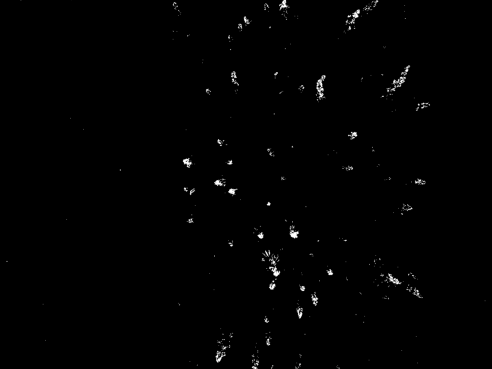
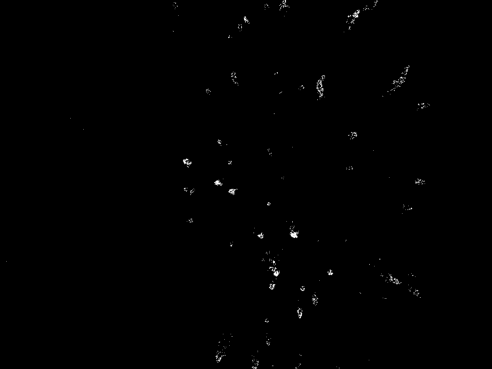
initial contour count

diff --git a/test.py b/test.py
@@ -8,8 +8,9 @@ import timeit
 
 start = timeit.default_timer()
 
-DOMINANT_COLORS = 20
+DOMINANT_COLORS = 50
 FILEPATH = "hemp1.jpeg"
+NUM_LUMA = 4
 
 def generateOriginalImage():
 
@@ -138,6 +139,18 @@ def imageClosing(img, imageNum, times):
     plt.close()
     return closedImg, closedFilepath
 
+def imageDilation(img, imageNum, times):
+    dilatedFilepath = f'BW{imageNum}.png'
+    dilatedImg = morphology.dilation(img)
+    plt.imshow(dilatedImg)
+    #plt.suptitle(f"{times}x Closing, K={DOMINANT_COLORS}")
+    plt.axis('off')
+    #plt.savefig(closedFilepath, bbox_inches='tight')
+    plt.savefig(dilatedFilepath, bbox_inches='tight', pad_inches = 0)
+    #plt.show()
+    plt.close()
+    return dilatedImg, dilatedFilepath
+
 def generateTransparentImage(filepath):
     transparentFilepath = 'transparent_image.png'
     BW = Image.open(filepath)
@@ -155,6 +168,7 @@ def generateTransparentImage(filepath):
     return transparentFilepath
 
 def overlayImages(segmentedFilepath, transparentFilepath):
+    overlayFilepath = 'overlayed.png'
     '''
     background = cv2.imread(segmentedFilepath)
     overlay = cv2.imread(transparentFilepath)
@@ -184,10 +198,25 @@ def overlayImages(segmentedFilepath, transparentFilepath):
 
     # display the image
     #cv2.imshow("Composited image", background)
-    cv2.imwrite('overlayed.png', background) 
+    cv2.imwrite(overlayFilepath, background) 
     cv2.waitKey(0)
     cv2.destroyAllWindows()
+    return overlayFilepath
 
+def findBlobs(img_filepath):
+    cannyFilepath = 'Canny_Edges_After_Contouring.png'
+    contourFilepath = 'Contours.png'
+    img = cv2.imread(img_filepath)
+    imgray = cv2.cvtColor(img, cv2.COLOR_BGR2GRAY)
+    edged = cv2.Canny(imgray, 30, 200) 
+    #contours, hierarchy = cv2.findContours(edged,cv2.RETR_LIST, cv2.CHAIN_APPROX_NONE)
+    contours, hierarchy = cv2.findContours(edged,cv2.RETR_EXTERNAL, cv2.CHAIN_APPROX_NONE)
+    cv2.imwrite(cannyFilepath, edged) 
+    print("Number of Contours found = " + str(len(contours))) 
+    cv2.drawContours(img, contours, -1, (255, 255, 255), thickness=cv2.FILLED) 
+    cv2.imwrite(contourFilepath, img) 
+    cv2.destroyAllWindows()
+    return cannyFilepath, contourFilepath
 
 im = generateOriginalImage()
 km, centers = kMeans(im)
@@ -200,10 +229,18 @@ bw_img, BW1Filepath = generateBWImage(bw_img, km, colors, original_shape)
 opened_img1x, openedFilepath1x = imageOpening(bw_img, 2, 1)
 closed_img1x, closedFilepath1x = imageClosing(opened_img1x, 3, 1)
 closed_img2x, closedFilepath2x = imageClosing(closed_img1x, 4, 2)
+closed_img3x, closedFilepath3x = imageClosing(closed_img1x, 5, 3)
+dilated_img1x, dilatedFilepath1x = imageDilation(closed_img1x, 6, 1)
+dilated_img2x, dilatedFilepath2x = imageDilation(closed_img1x, 7, 2)
+dilated_img3x, dilatedFilepath3x = imageDilation(closed_img1x, 8, 3)
+dilated_img4x, dilatedFilepath4x = imageDilation(closed_img1x, 9, 4)
 #transparentFilepath = generateTransparentImage(closedFilepath2x)
-transparentFilepath = generateTransparentImage(BW1Filepath)
-overlayImages(segmentedFilepath, transparentFilepath)
+#transparentFilepath = generateTransparentImage(dilatedFilepath4x)
+#overlayFilepath = overlayImages(segmentedFilepath, transparentFilepath)
+cannyFilepath, contourFilepath = findBlobs(dilatedFilepath4x)
+transparentFilepath = generateTransparentImage(contourFilepath)
+overlayFilepath = overlayImages(segmentedFilepath, transparentFilepath)
+
 
 stop = timeit.default_timer()
-
 print('Runtime: ', round((stop - start), 2))
